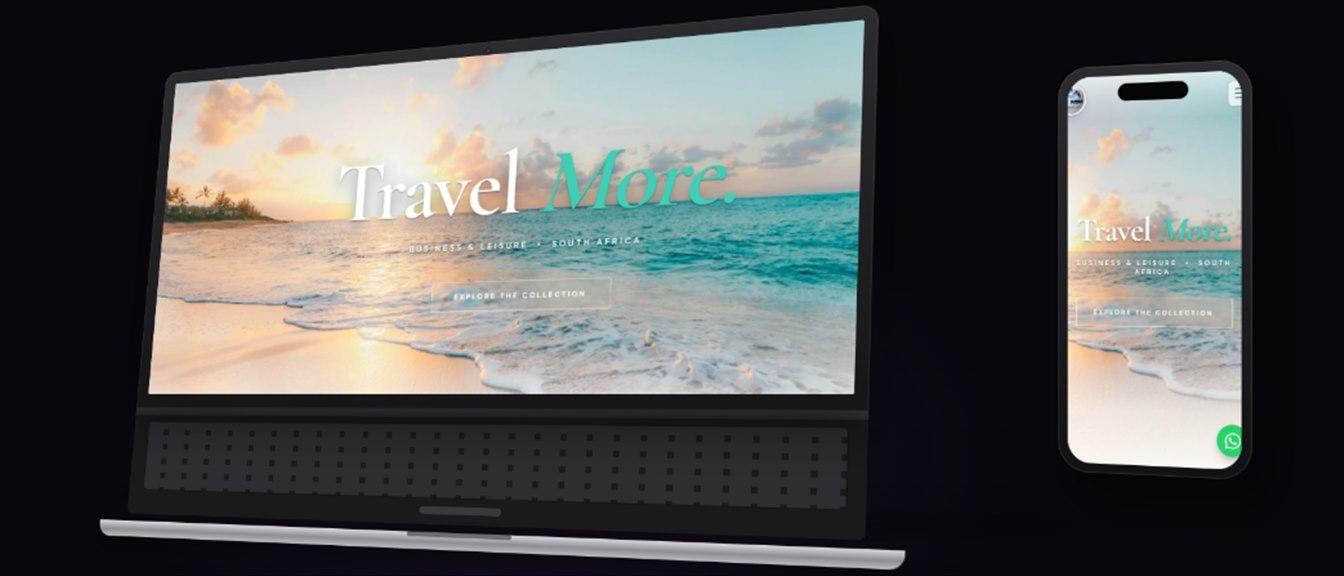
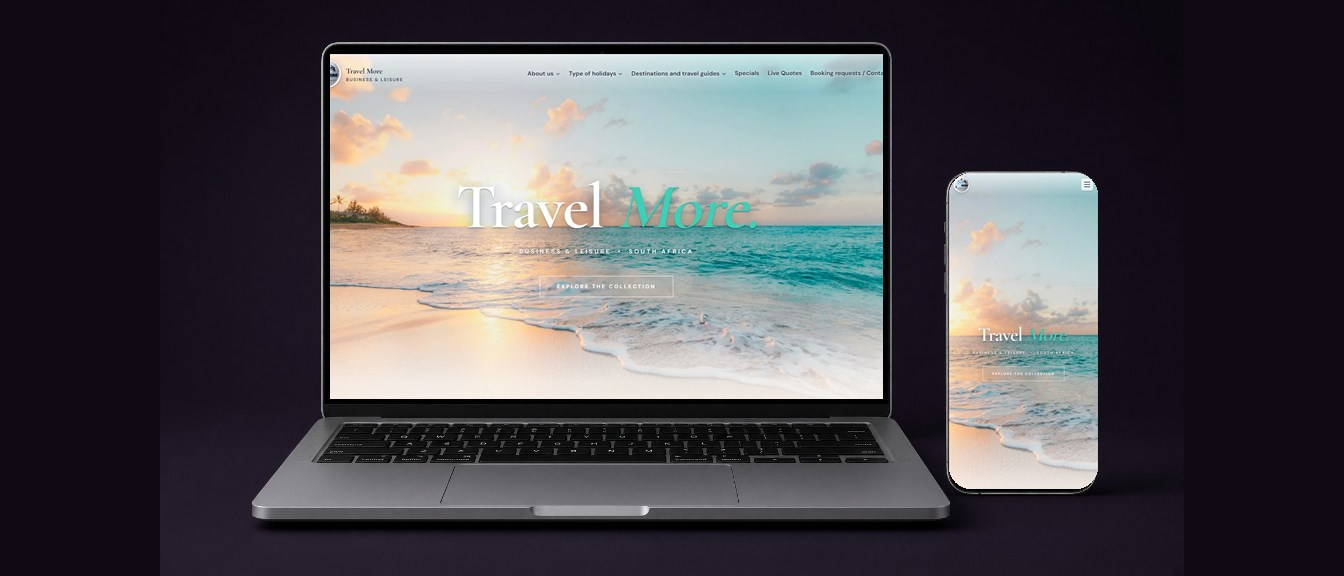
Use the Crafter Mo laptop frame on the Travel More card.

diff --git a/services/index.html b/services/index.html
@@ -378,7 +378,7 @@
           >
             <img
               class="is-devices"
-              src="/assets/travel-more-devices.jpg?v=desk1"
+              src="/assets/travel-more-devices.jpg?v=desk2"
               alt=""
               width="1344"
               height="576"
